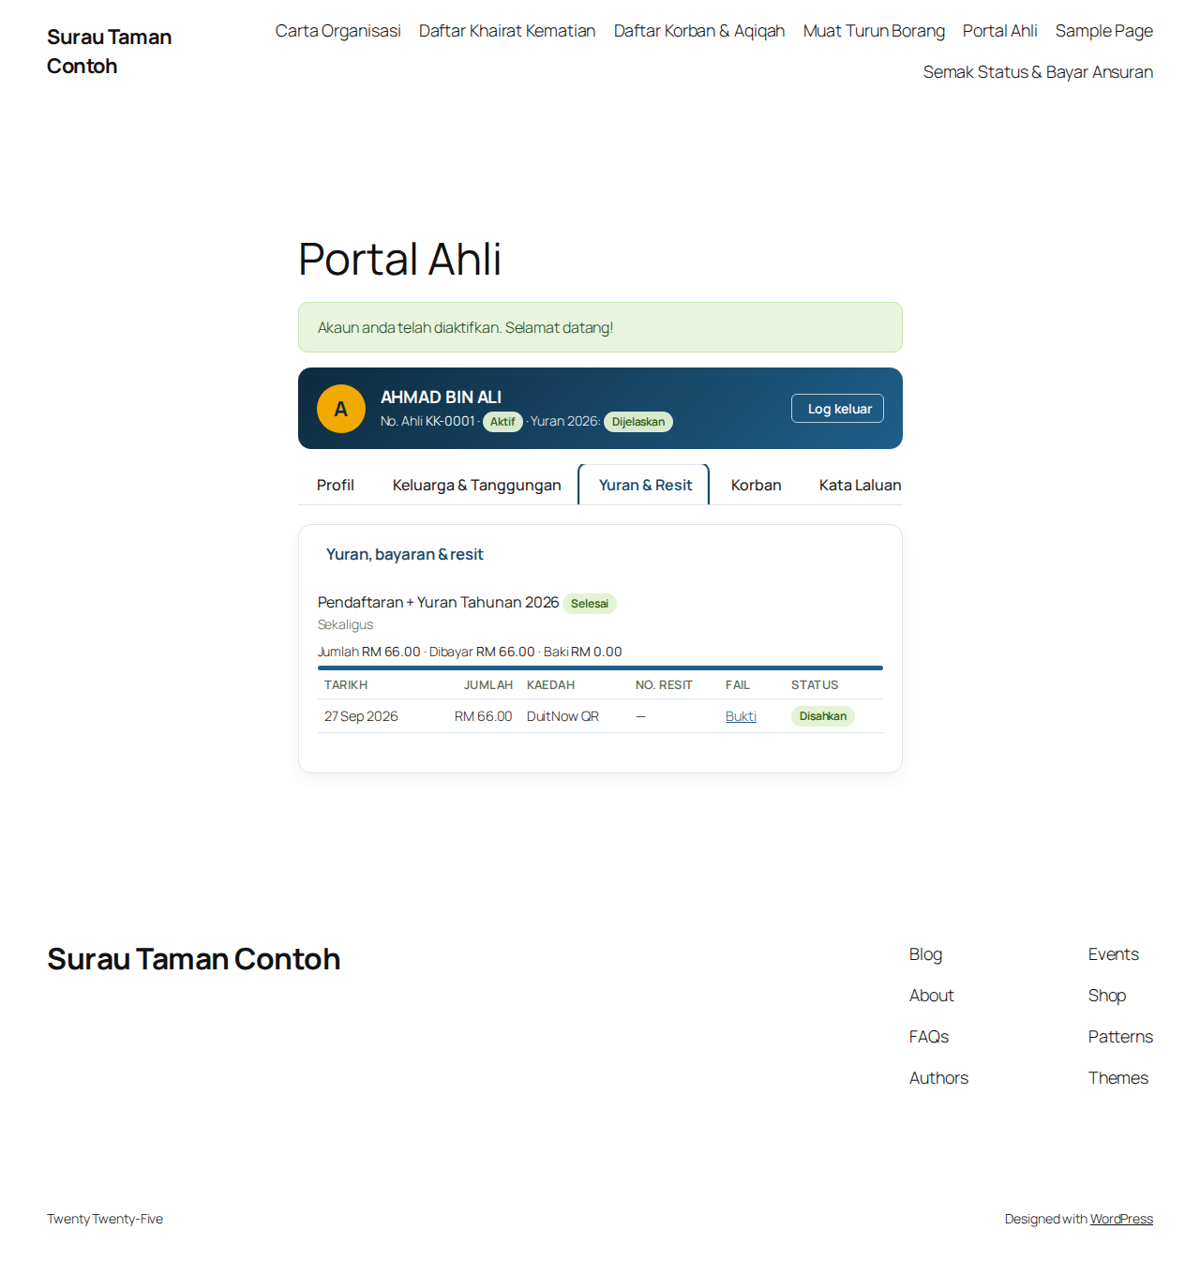
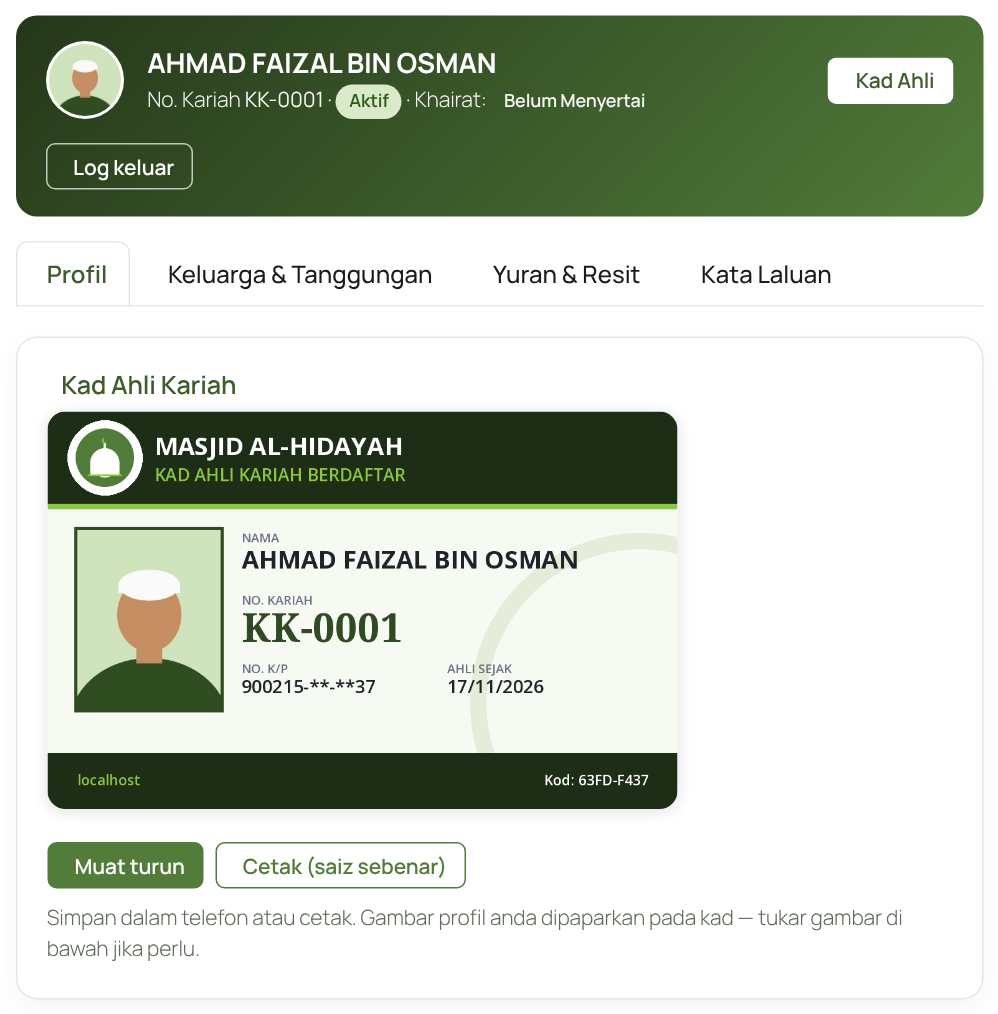
Docs: README screenshots for 1.6/1.7 (kariah form, khairat form, Kad Ahli Kariah, documents, Portal)
Claude-Session: https://claude.ai/code/session_01D4ZN1NgbDThCsPpeTs6G4w

diff --git a/README.md b/README.md
@@ -4,7 +4,9 @@ Plugin WordPress untuk mengurus **Ahli Kariah (No. Kariah), Badan Khairat Kemati
 
 *A WordPress plugin for Malaysian mosques to run parish (kariah) registration with system-issued member numbers, death-benefit (khairat) membership for registered kariah members and qurban/aqiqah registration: online forms with payment-proof upload, instalment plans, AJK approval workflow, member self-service portal, CSV import/export and an infographic dashboard. UI is in Bahasa Melayu; IC-number (MyKad) aware.*
 
-![Borang pendaftaran khairat](docs/borang-khairat.png)
+| Langkah 1 — Daftar Ahli Kariah | Langkah 2 — Daftar Khairat (Ahli Kariah sahaja) |
+|---|---|
+| ![Borang Ahli Kariah](docs/borang-kariah.png) | ![Borang khairat](docs/borang-khairat.png) |
 
 ## Ciri-ciri
 
@@ -40,6 +42,14 @@ Plugin WordPress untuk mengurus **Ahli Kariah (No. Kariah), Badan Khairat Kemati
 - **Dokumen sokongan:** borang Ahli Kariah mewajibkan salinan Kad Pengenalan; surat pengesahan alamat (JPKK / penghulu / pengerusi taman) diwajibkan jika alamat IC berbeza. Disimpan secara peribadi; AJK boleh lihat / muat naik dari rekod ahli, ahli boleh kemas kini di Portal Ahli. Senarai ahli menandakan rekod *Tiada salinan IC*.
 - **Kad Ahli Kariah:** imej PNG dijana ketika diminta (tidak disimpan) untuk Ahli Kariah aktif — logo masjid, warna tema plugin, gambar profil, No. Kariah, No. KP bertopeng, tarikh ahli dan **kod pengesahan** (AJK semak kod pada rekod ahli). Butang *Kad Ahli* di Portal, halaman cetak saiz sebenar.
 - **Terma Ahli Kariah** boleh disunting di Tetapan (`{masjid}` `{yuran_kariah}` `{umur_min_kariah}`), **umur minimum** pendaftaran (lalai 18 — disemak dari No. KP) dan pautan pilihan ke **halaman syarat & faedah**.
+
+![Kad Ahli Kariah](docs/kad-ahli-kariah.png)
+
+| Dokumen sokongan pada borang | Portal Ahli — kad & dokumen | Rekod ahli (AJK) |
+|---|---|---|
+| ![](docs/borang-dokumen.png) | ![](docs/portal-ahli.png) | ![](docs/admin-kad-dokumen.png) |
+
+*Tangkapan skrin daripada laman ujian "Masjid Al-Hidayah" — nama, No. KP dan dokumen adalah contoh rekaan.*
 
 **Baharu dalam 1.6.0 — Ahli Kariah dahulu, kemudian Khairat**
 - Pendaftaran **Ahli Kariah** (sekali seumur hidup) kini langkah pertama. **No. Kariah** (`KK-0001`) diberikan **oleh sistem sahaja** — selepas AJK meluluskan pendaftaran **dan** yuran Ahli Kariah disahkan (atau yuran RM0 / dikecualikan). Tiada sesiapa boleh mengisi atau menukar No. Kariah secara manual.
